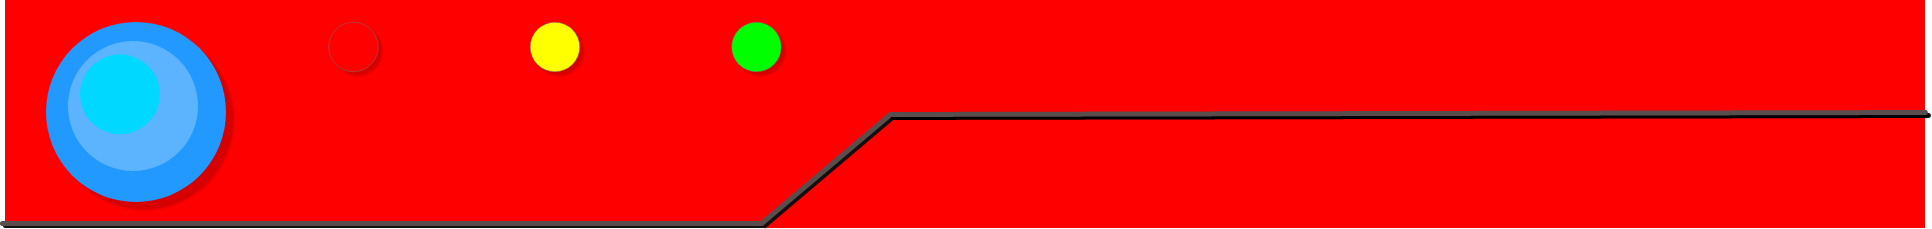
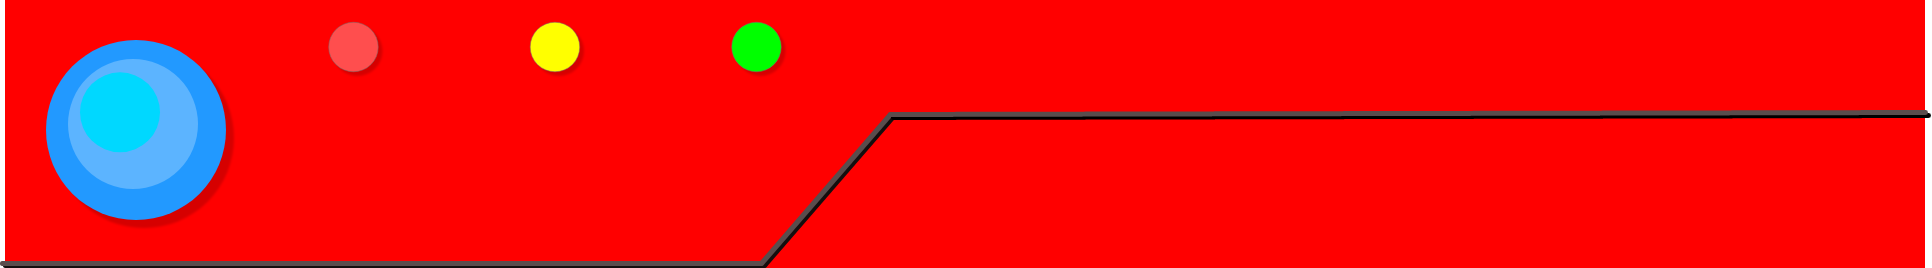
Added loading screen gif

diff --git a/src/components/Loading/index.js b/src/components/Loading/index.js
@@ -1,8 +1,14 @@
 import React from "react";
-import { LoadingContainer } from "./LoadingElements";
+import { LoadingContainer, LoadingGif } from "./LoadingElements";
+import Pokegif from "../../images/pikachu_loading.gif";
 
 const Loading = () => {
-  return <LoadingContainer>Loading Pokémon Data...</LoadingContainer>;
+  return (
+    <LoadingContainer>
+      {/* Loading Pokémon Data... */}
+      <LoadingGif src={Pokegif} />
+    </LoadingContainer>
+  );
 };
 
 export default Loading;

diff --git a/src/components/Navbar/NavbarElements.js b/src/components/Navbar/NavbarElements.js
@@ -6,7 +6,7 @@ export const NavbarContainer = styled.div`
   align-items: center;
   width: 100vw;
   height: 2.5vh;
-  background-color: #f00;
+  background-color: #ff0102;
   padding: 2.5rem;
 
   @media screen and (max-width: 630px) {
@@ -36,7 +36,7 @@ export const NavButton = styled.button`
 export const PokedexHeader = styled.img`
   height: 10vh;
   width: 100vw;
-  background-color: red;
+  background-color: #eb3223;
   margin-bottom: -5px;
   padding: 0;
   border: 0px;

diff --git a/src/components/Loading/LoadingElements.js b/src/components/Loading/LoadingElements.js
@@ -2,5 +2,16 @@ import styled from "styled-components";
 
 export const LoadingContainer = styled.div`
   width: 100vw;
-  height: 100vh;
+  height: 81.5vh;
+  display: flex;
+  flex-direction: column;
+  justify-content: center;
+  align-items: center;
+  background-color: #ff0102;
+`;
+
+export const LoadingGif = styled.img`
+  /* background-size */
+  height: 40vh;
+  width: 60vw;
 `;

diff --git a/src/components/Title/TitleElements.js b/src/components/Title/TitleElements.js
@@ -4,7 +4,7 @@ export const TitleContainer = styled.h1`
   display: flex;
   align-items: center;
   justify-content: center;
-  background: linear-gradient(red, white);
+  background: linear-gradient(#ff0102, white);
   width: 100%;
   font-size: 2.5rem;
   padding: 10px;

diff --git a/src/pages/Home.js b/src/pages/Home.js
@@ -1,5 +1,4 @@
 import React, { useState, useEffect } from "react";
-import styled from "styled-components";
 import Pokemon from "../components/Pokemon";
 import Title from "../components/Title";
 import Loading from "../components/Loading";

diff --git a/src/components/Profile/ProfileElements.js b/src/components/Profile/ProfileElements.js
@@ -5,7 +5,7 @@ export const ProfileContainer = styled.div`
   flex-direction: column;
   justify-content: center;
   align-items: center;
-  height: 95vh;
+  height: 81.5vh;
   color: #fff;
   font-size: 2rem;
   background-color: #a5a5a5;
